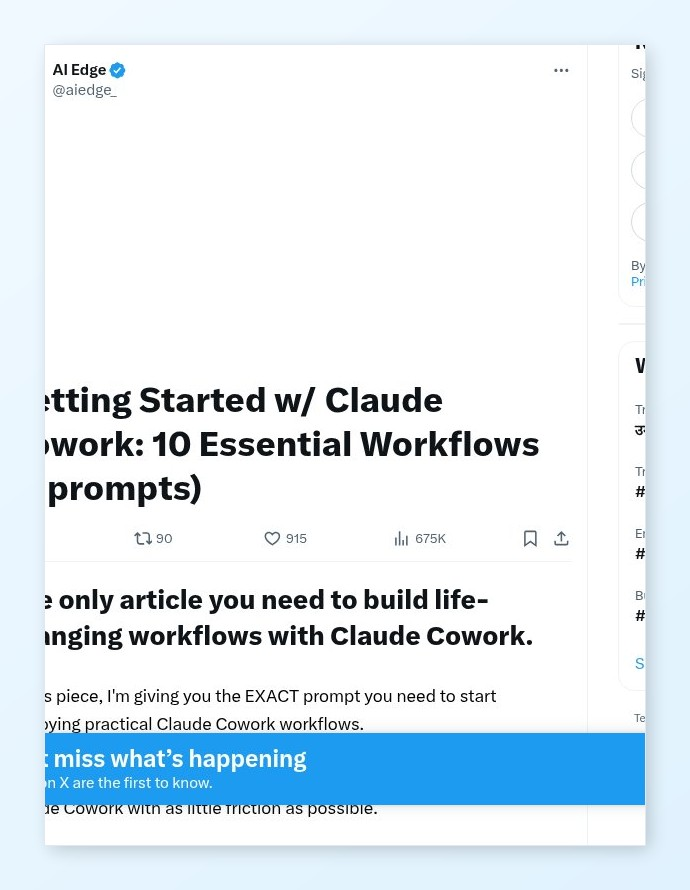
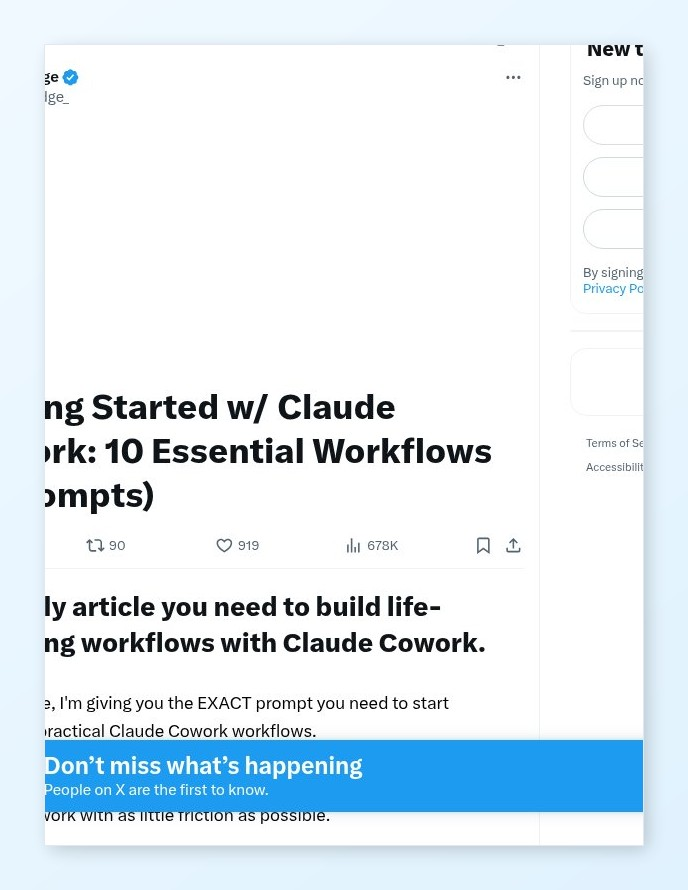
fix: implement dynamic element-based screenshot clipping for Twitter

diff --git a/scripts/capture-screenshot.js b/scripts/capture-screenshot.js
@@ -19,8 +19,8 @@ async function captureScreenshot(url, outputName = 'screenshot.png', options = {
 
   // Platform-specific presets to focus on relevant content
   const presets = {
-    twitter: { x: 340, y: 50, width: 600, height: 800 },  // Focus on centered tweet content (1280/2 - 600/2 = 340)
-    x: { x: 340, y: 50, width: 600, height: 800 },       // Same as Twitter
+    twitter: { x: 280, y: 50, width: 600, height: 800 },  // Focus on centered tweet content (observed x=283)
+    x: { x: 280, y: 50, width: 600, height: 800 },       // Same as Twitter
     linkedin: { x: 150, y: 50, width: 900, height: 600 }, // Focus on feed with 25% margins
     github: { x: 0, y: 0, width: 1280, height: 800 },     // Full page for code repos
     default: defaultClip
@@ -64,6 +64,29 @@ async function captureScreenshot(url, outputName = 'screenshot.png', options = {
 
     // Wait a bit for any lazy-loaded content
     await new Promise(resolve => setTimeout(resolve, 2000));
+
+    // Dynamic clipping for Twitter/X
+    if (url.includes('twitter.com') || url.includes('x.com')) {
+      try {
+        const tweetElement = await page.$('[data-testid="tweet"]');
+        if (tweetElement) {
+          const box = await tweetElement.boundingBox();
+          if (box) {
+            console.log(`🎯 Found tweet element at x:${box.x}, width:${box.width}`);
+            // Use the element's position but cap the height to avoid capturing 100 replies
+            // and ensure we don't go off-screen
+            clip = {
+              x: Math.max(0, box.x),
+              y: Math.max(0, box.y),
+              width: box.width,
+              height: Math.min(box.height, 800) // Cap height at 800px
+            };
+          }
+        }
+      } catch (e) {
+        console.warn('⚠  Could not calculate dynamic clip, using preset.');
+      }
+    }
 
     const outputPath = path.join(process.cwd(), 'public', 'screenshots', outputName);
 
